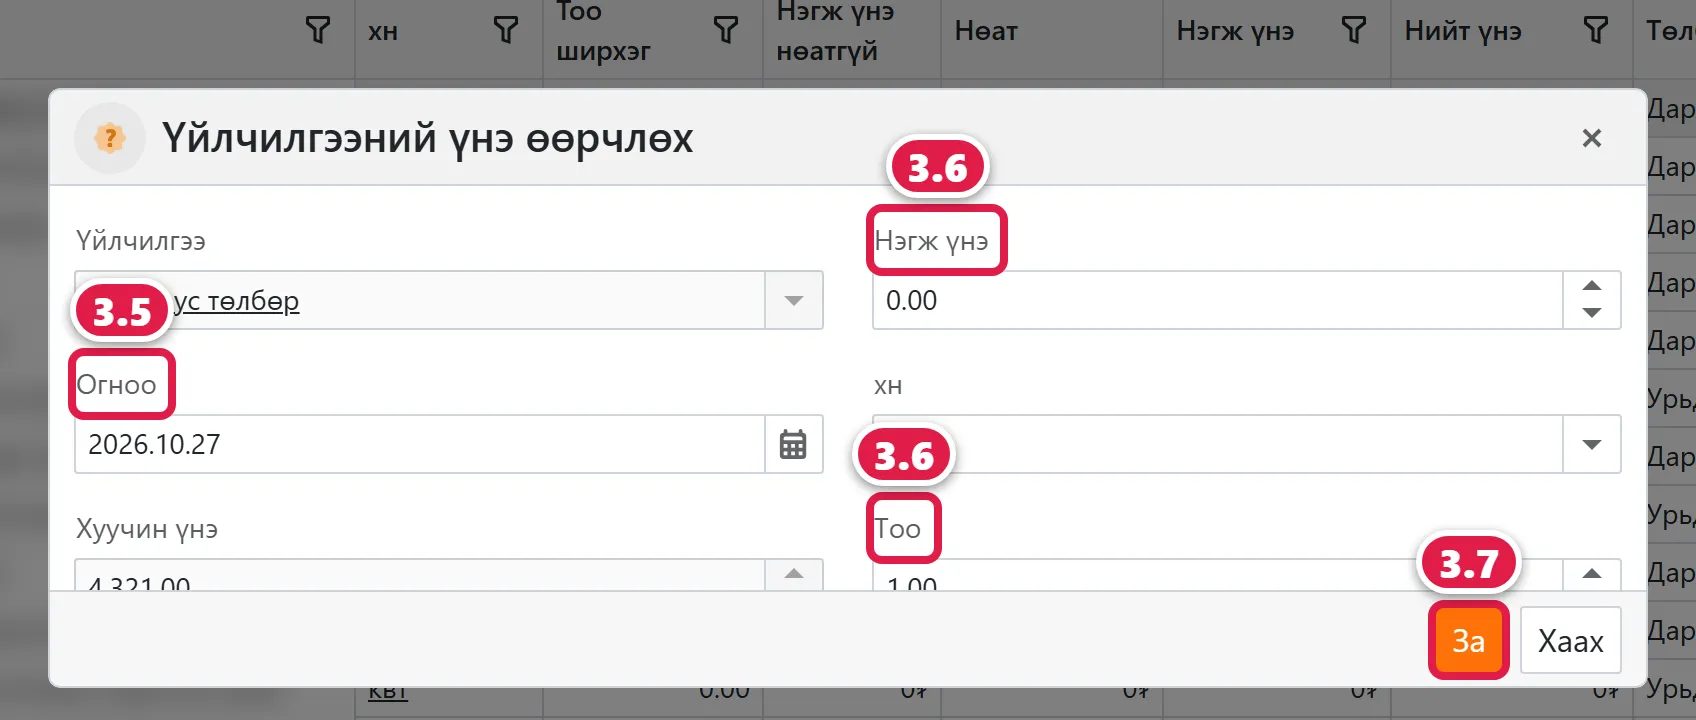
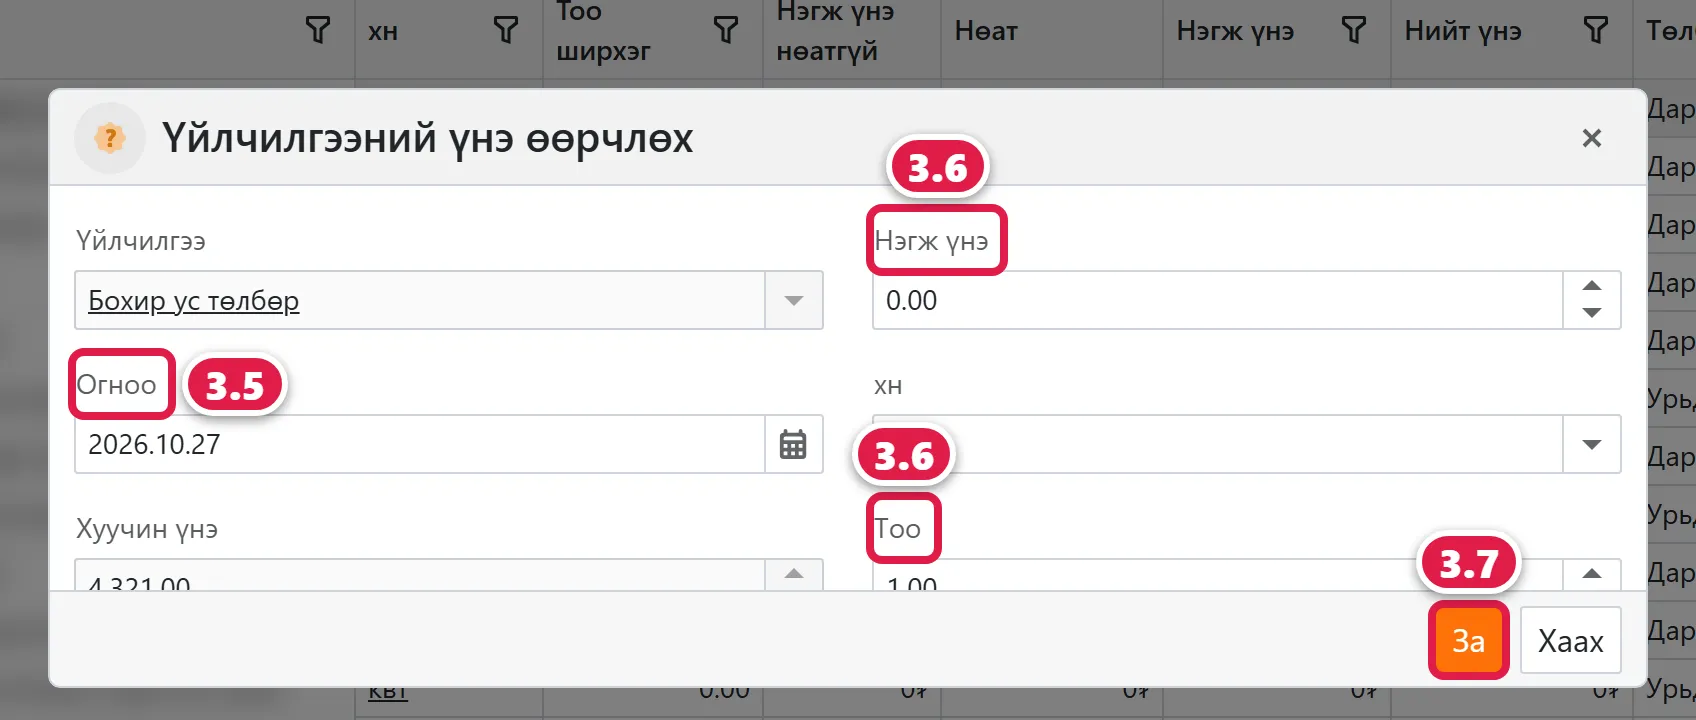
help: Эхний үлдэгдэл — цэсний зураг, owner-т «Шинэ» товч харагдахгүйг тэмдэглэв; Үнэ өөрчлөх — QA засвар
- une-oorchloh: объектын үнэ өөрчлөх алхмаас хэрэглэгчид харагдах ❔-ийг авч, PropertyItemPriceController-оор баталсан алхмаар солив
- une-dialog: 3.5 тэмдэг «Үйлчилгээ» утгыг дарахгүй (баруун талд)

Claude-Session: https://claude.ai/code/session_01HhipU9G1kwDtLBKWYTpQfA

Changed region(s): [[0.0312, 0.3667, 0.1875, 0.6111]]

diff --git a/docs/owner/une-oorchloh.md b/docs/owner/une-oorchloh.md
@@ -19,6 +19,7 @@ keywords:
 Нотолгоо (Spacehub23 origin/master c68c602):
 - Гэрээний үйлчилгээ: ContractItem.cs:16 «Гэрээ бүтээгдэхүүн/үйлчилгээ», :175 Нэгж үнэ, :186 Тоо ширхэг, :235 Ашиглах, :243 Хоног тооцох, :267 «Үнэ өөрчлөлт» (ContractItemPrices); товч :71 «Бүхэл болгох», :83 «Ашиглах», :91 «Ашиглахгүй» (AutoCommit=false)
 - ContractItemPrice.cs:17 «Гэрээт үйлчилгээ үнэ өөрчлөлт»: :135 Үйлчилгээ, :152 Нэгж үнэ, :170 Тоо, :181 Үнэ, :191 Огноо; :23 үнэ ≥ 0
+- Объектын «Үнэ өөрчлөх»: PropertyItemPriceController.cs:17-24 (Property_PropertyItems_ListView, нэг мөр); объектын картын табын нэр UI-аар батлаагүй ❔
 - Объектын үйлчилгээ: PropertyItem.cs:243 «Үнэ өөрчлөлт тооцоолол» (BillCalcType), :305 «Үнэ өөрчлөлтийн түүх»; PropertyItemPrice.cs:17 «Үйлчилгээний үнэ өөрчлөлт»
 - Гэрээ рүү хуулах: ContractItem.cs:495-565 (объектын үнийн түүхийг гэрээнд татна — Гэрээ «Үйлчилгээ татах»); #1066
 - Сарын үнэ сонгох: ContractItem.cs:772-830 GetItemPrices (сарын дотор өөрчлөгдсөн үнэ + сарын эхний өмнөх сүүлийн үнэ); Bill.cs:1125-1150 — BillCalcType: Эхний үнээр / Сүүлийн үнээр / Бага үнээр / Их үнээр / Бүх үнээр (хоногоор хувааж); нэмэлт төлбөрт сүүлийн үнэ
@@ -37,7 +38,7 @@ keywords:
 Объектын үнийн түүх гэрээнд **«Үйлчилгээ татах»**-аар хуулагдана (Гэрээ жагсаалт).
 
 ## Олон айлын тариф өөрчлөх (объект)
-1. Объектын үйлчилгээг нээгээд **Үнэ өөрчлөлтийн түүх**-д **огноо** ба **шинэ үнэ** нэм ❔ (объектын картын замыг UI-аар батлаагүй).
+1. **Объект** цэснээс объектоо нээ. Үйлчилгээний жагсаалтаас **нэг** үйлчилгээг чагталж **«Үнэ өөрчлөх»** дараад **огноо** ба **шинэ үнэ**-ийг оруул. Цонх нь гэрээнийхтэй ижил (доорх Зураг 2).
 2. **Гэрээ** жагсаалтаас холбогдох гэрээнүүдийг сонгоод **«Үйлчилгээ татах»** — шинэ үнэ гэрээнд хуулагдана.
    - Зөвхөн **өнөөдрөөс өмнөх** огноотой үнэ татагдана. Өнөөдрийн болон ирээдүйн огноотой үнэ одоо татагдахгүй — тэр огнооны **маргааш** дахин «Үйлчилгээ татах».
 3. Шинэ үнэтэй сарын төлбөрийг шалга. Аль хэдийн үүссэн бол **Тооцоо → Төлбөр**-өөс «Төлбөр шинэчлэх».
